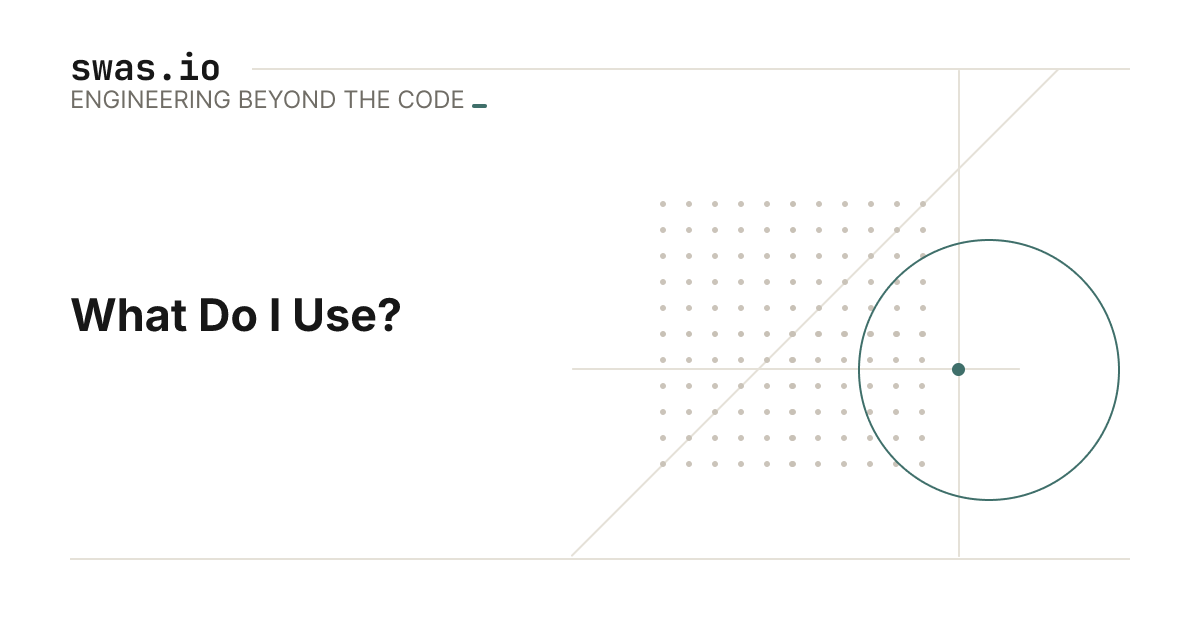
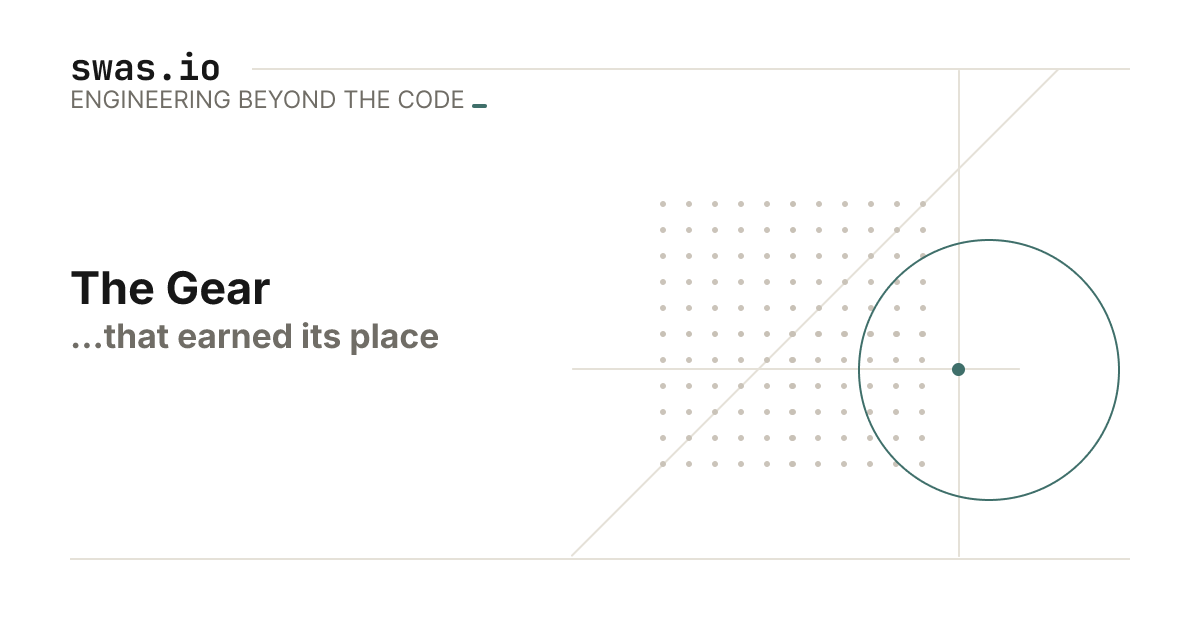
feat: improve image generation
New image for the uses page

Changed region(s): [[0.0617, 0.4222, 0.37, 0.573]]

diff --git a/README.md b/README.md
@@ -48,7 +48,19 @@ Force regeneration for one writing or page entry:
 npm run force-featured-image -- ./src/content/writing/example.mdx
 ```
 
-Add `image_title` to a post's frontmatter to override the text rendered on its image.
+For example, regenerate the featured image for `/uses`:
+
+```bash
+npm run force-featured-image -- ./src/content/pages/uses.mdx
+```
+
+Add `image_title` to a post's frontmatter to override the text rendered on its image. Use
+`<br>` for an explicit line break and wrap text in `<small>...</small>` to render it at
+75% of the title size in the muted text color:
+
+```yaml
+image_title: The Gear<br><small>That Earned Its Place</small>
+```
 
 ## Project Map
 